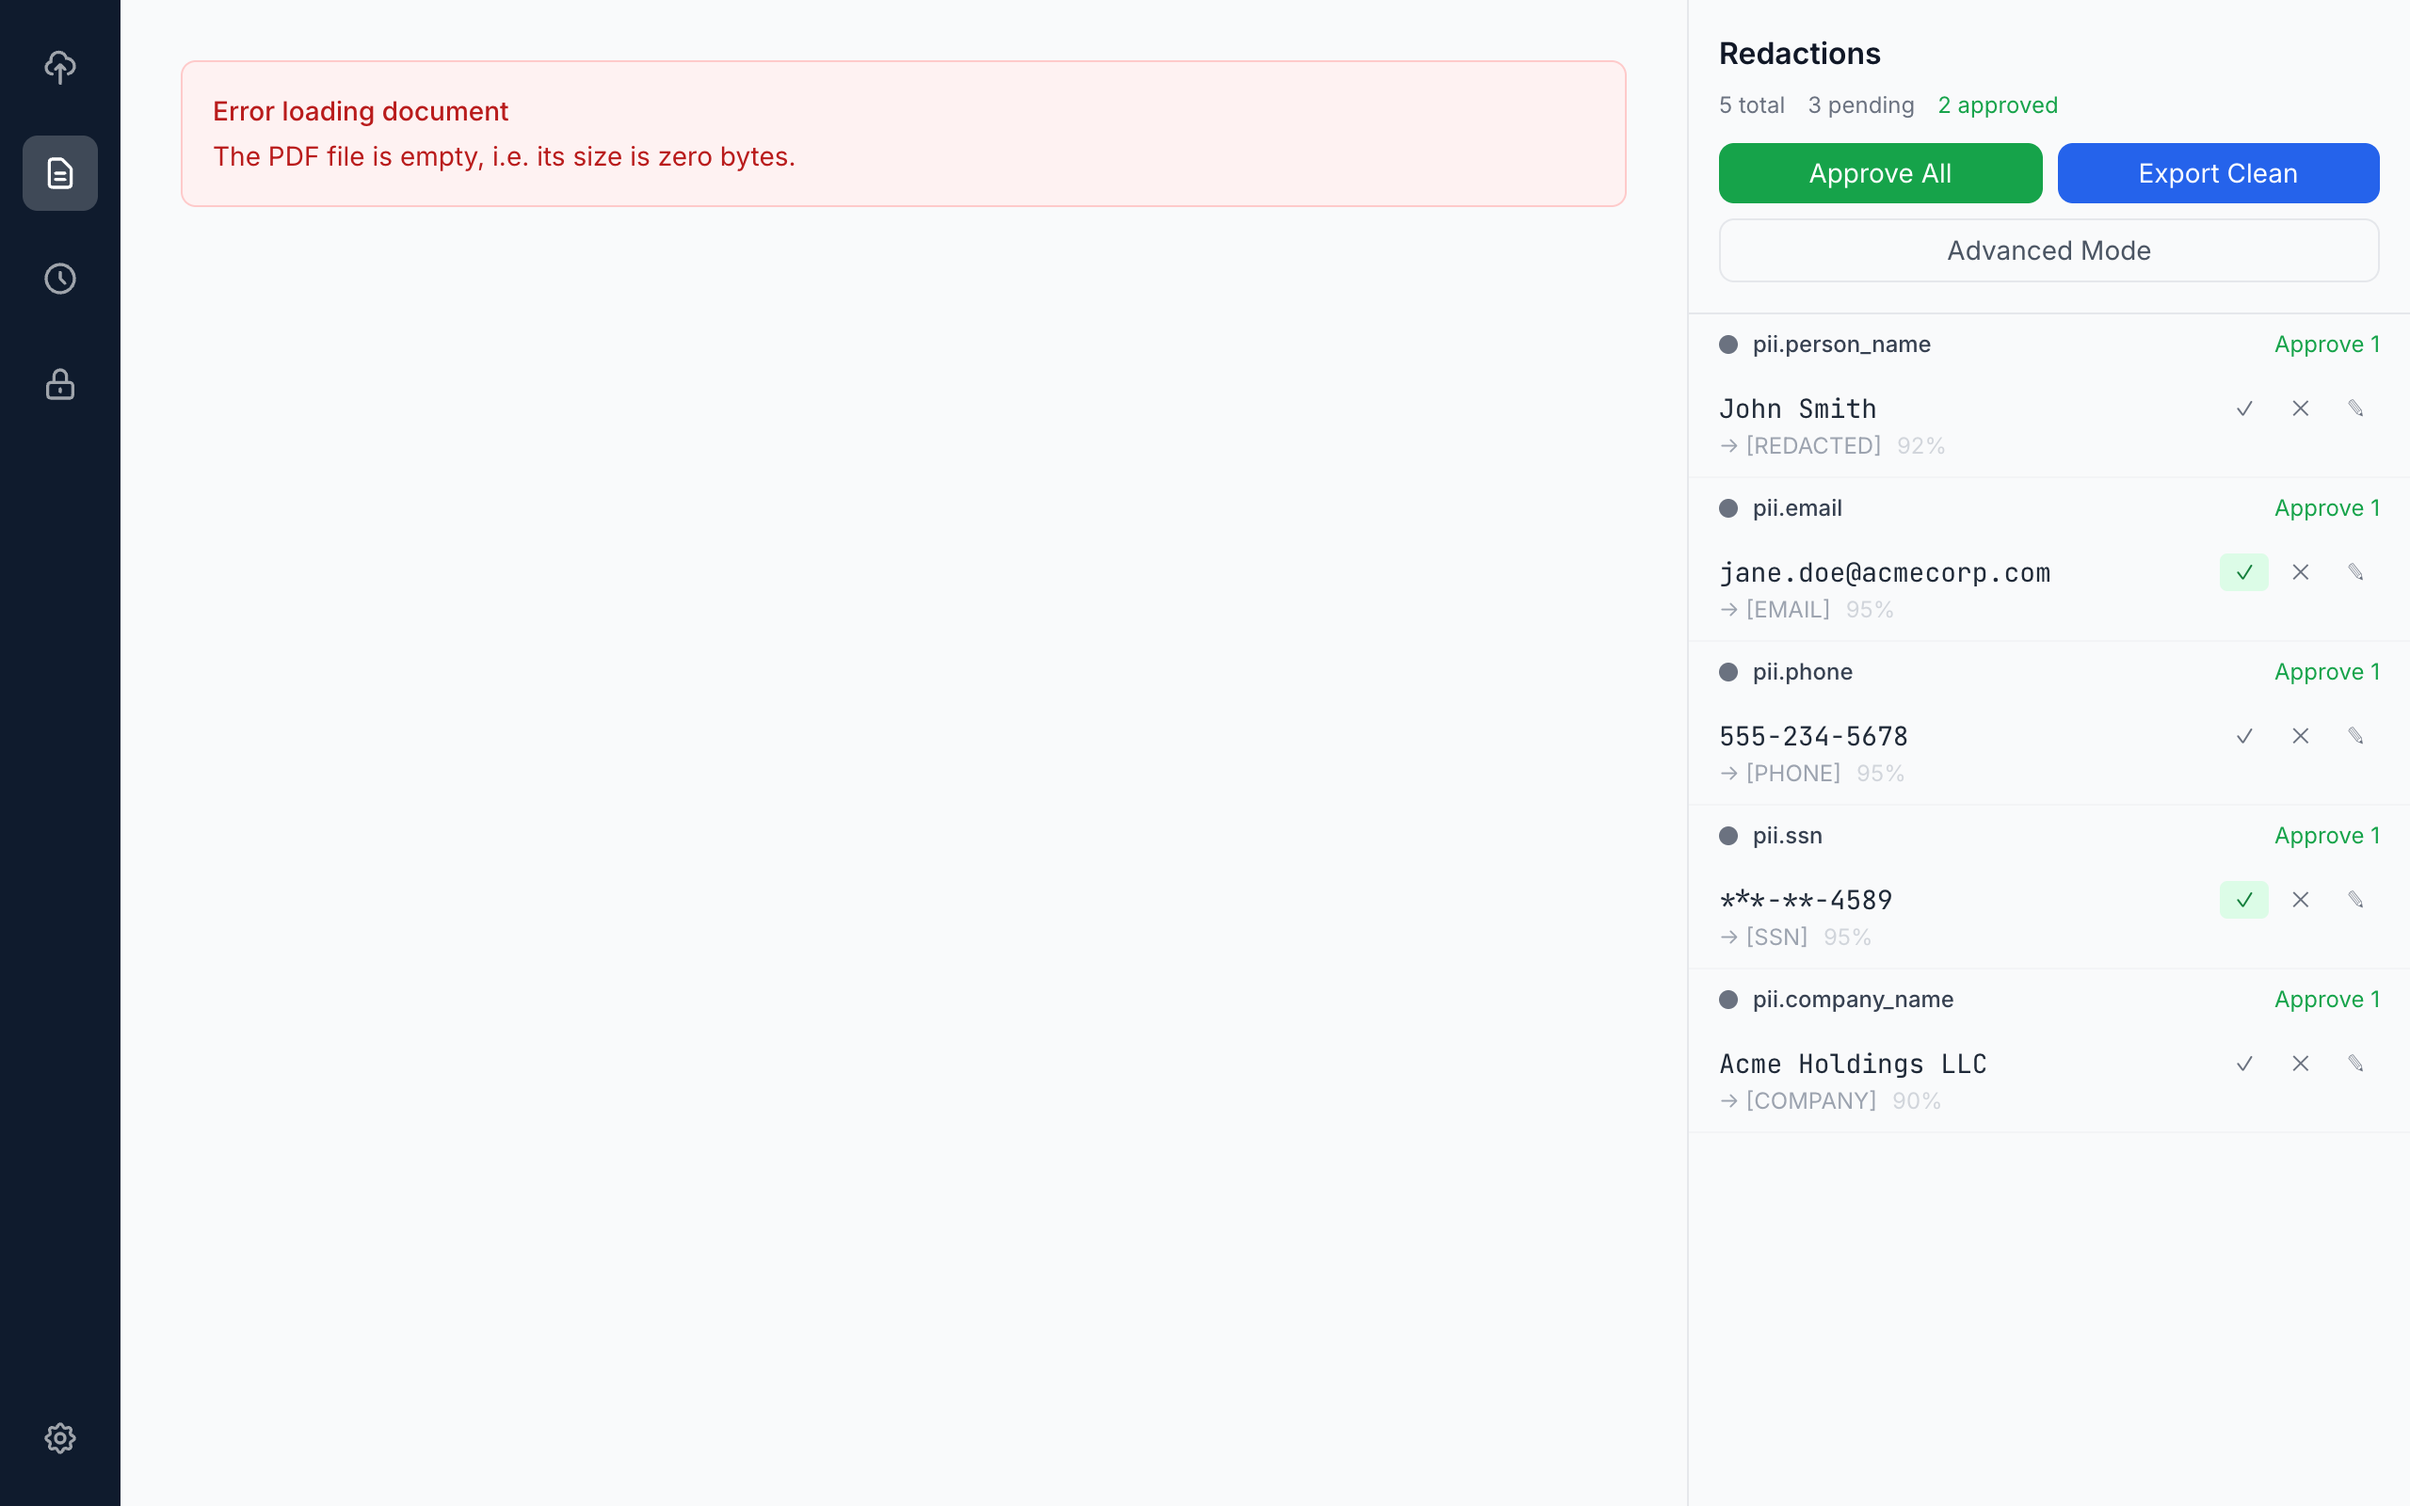
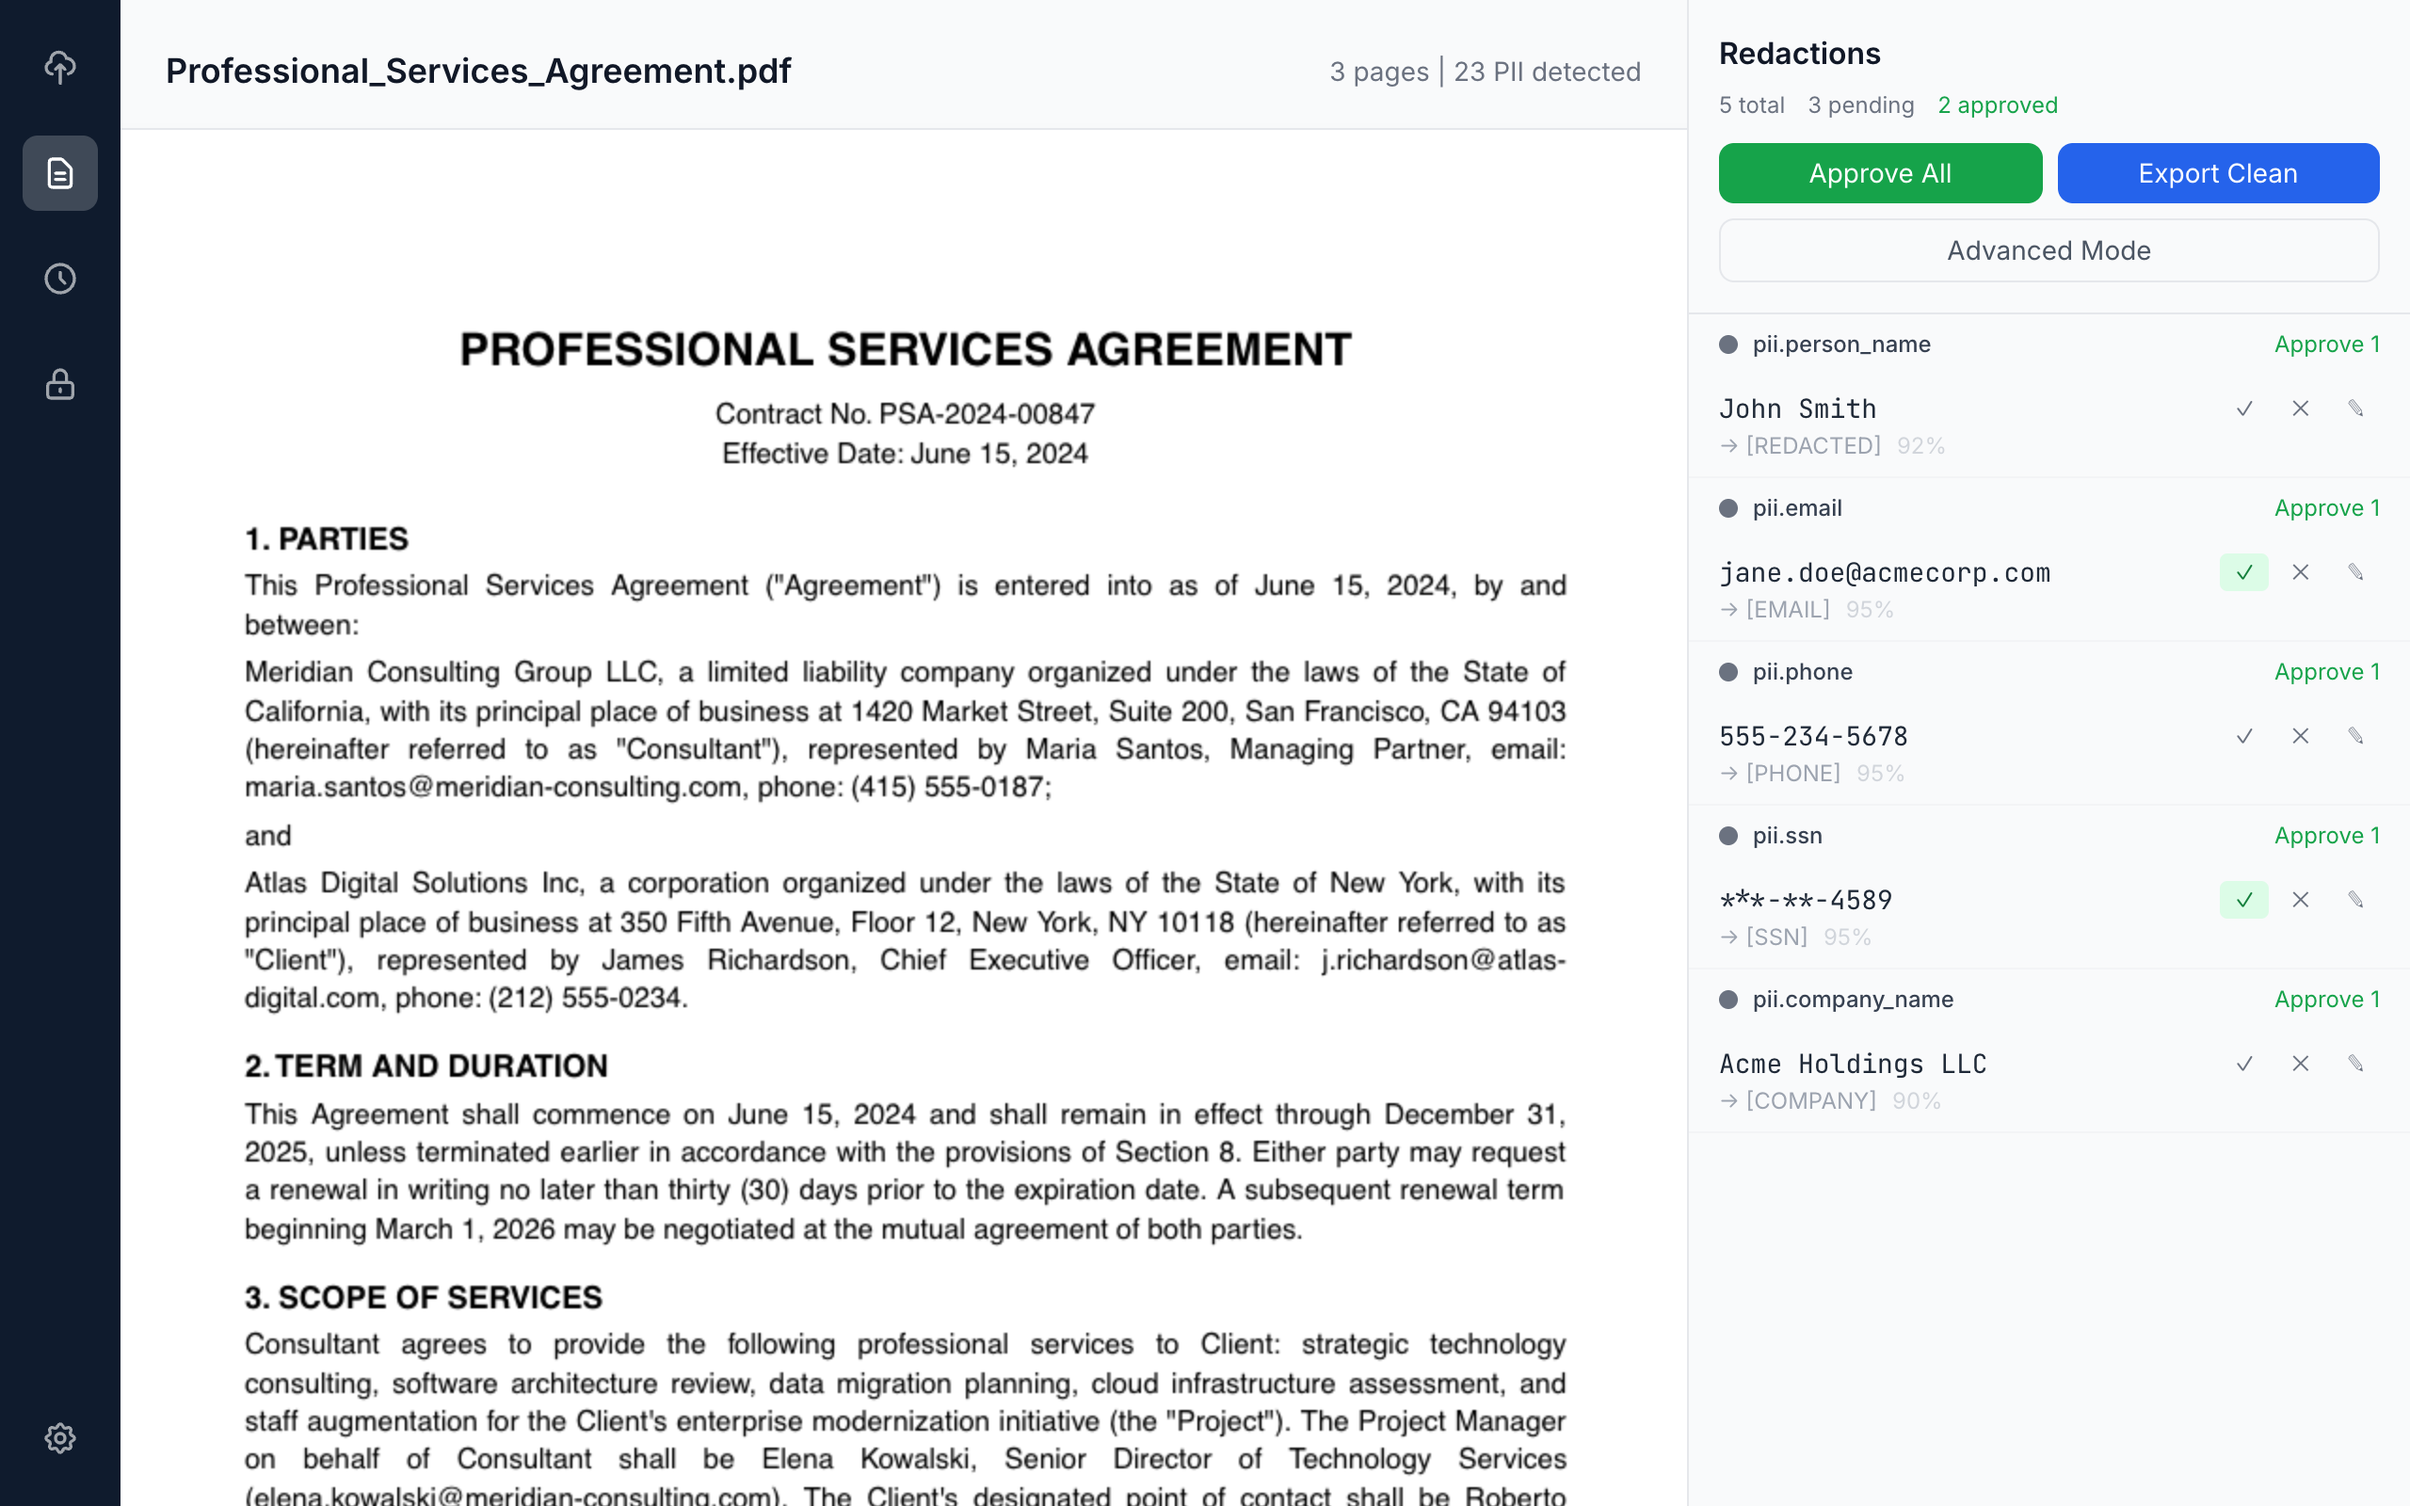
Fix PDF rendering in browser preview and update screenshots
Serve the example contract PDF from /public so the tauri-mock can fetch
and return it as base64 for the document viewer.  Re-captured screenshots
now show the actual PDF in the review view.

diff --git a/src/lib/tauri-mock.ts b/src/lib/tauri-mock.ts
@@ -93,8 +93,17 @@ export async function invoke(cmd: string, args?: any): Promise<any> {
       return [];
     case "get_document_pages":
       return [];
-    case "get_document_bytes":
-      return ""; // empty base64
+    case "get_document_bytes": {
+      // Fetch the example PDF from /public and return as base64
+      const resp = await fetch("/example-contract.pdf");
+      const buf = await resp.arrayBuffer();
+      const bytes = new Uint8Array(buf);
+      let binary = "";
+      for (let i = 0; i < bytes.length; i++) {
+        binary += String.fromCharCode(bytes[i]);
+      }
+      return btoa(binary);
+    }
     case "get_document_text":
       return "This is sample document text for preview purposes.";
     case "upload_document":
